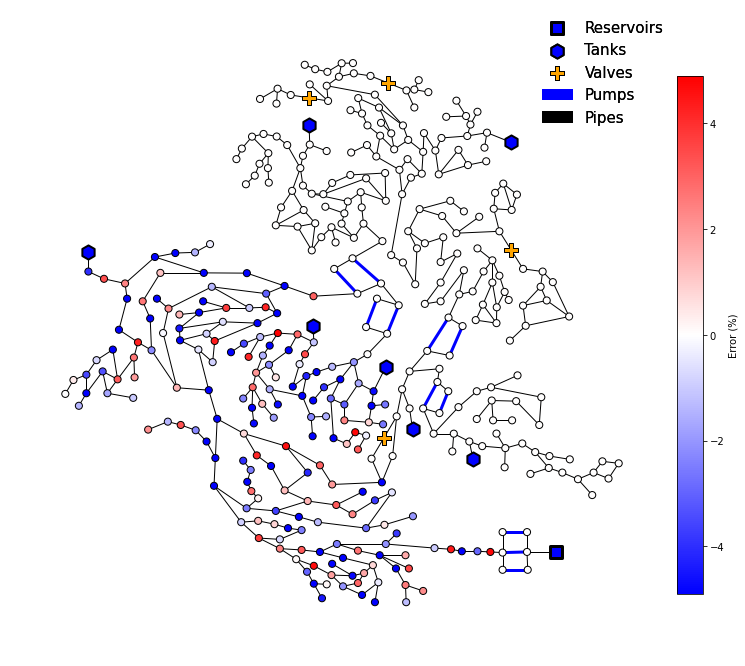
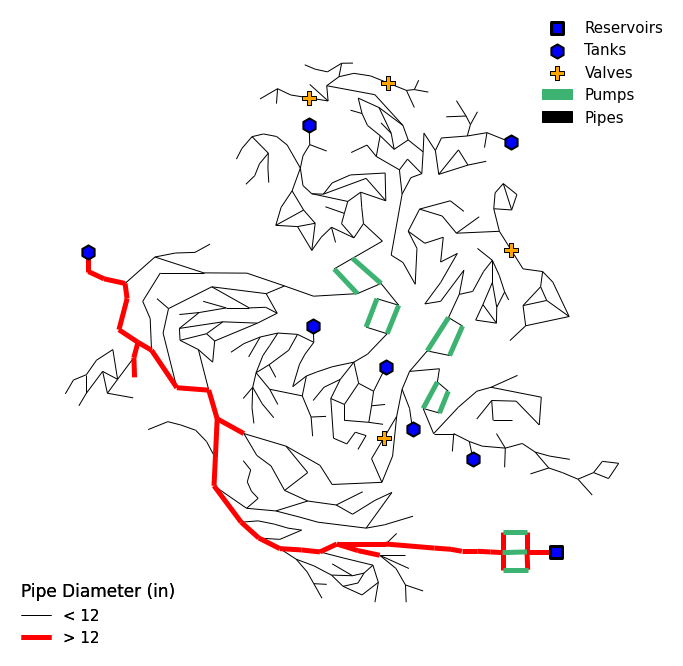
Add new example for highlighting diameters greater than

diff --git a/Examples/diameter_greatherthan.py b/Examples/diameter_greatherthan.py
@@ -1,0 +1,38 @@
+# -*- coding: utf-8 -*-
+"""
+Created on Sat Oct 22 16:03:53 2022
+
+@author: Tyler
+"""
+
+import visnet.network as visinit
+import visnet.drawing as visplot
+import matplotlib.pyplot as plt
+
+# Run EPANET2.0 Simulation and store results
+model = visinit.initialize_model(r"Networks\CTown.inp")  
+
+# Define figure to be drawn to
+fig, ax = plt.subplots(figsize=(12, 12))  
+
+# Disables frame around figure
+ax.set_frame_on(False)
+
+
+visplot.plot_discrete_links(
+    model, ax, 
+    parameter="diameter", 
+    unit="in", 
+    bin_edge_num=2,
+    bins=[0,12],
+    bin_label_list=["< 12","> 12"],
+    bin_width_list=[1,5],
+    color_list=['k','r'],
+    cmap="Blues", #Controls link widths
+    legend_loc_2="lower left", #Location of legend with bins
+    legend_title="Pipe Diameter (in)",
+    legend_sig_figs=0, #Whole numbers only
+    pump_color="mediumseagreen", 
+    pump_width=5, #In Pixels
+)
+plt.show()
